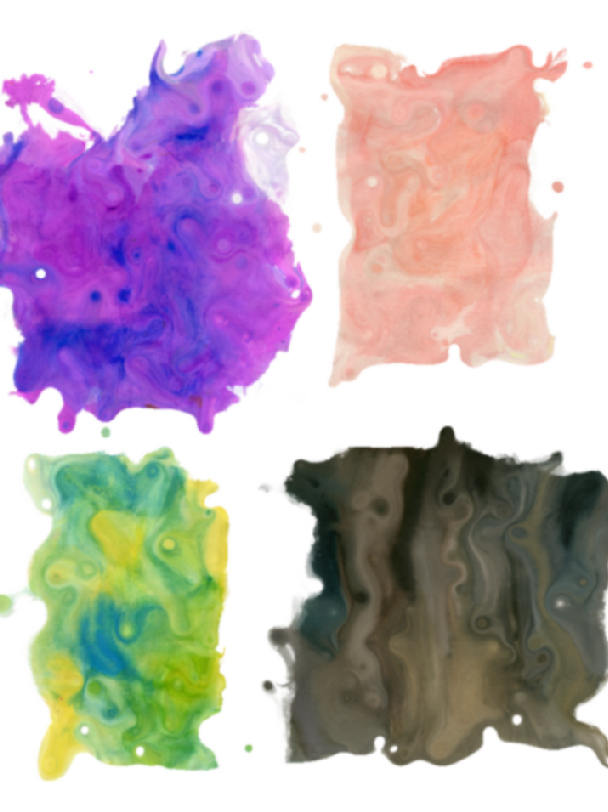
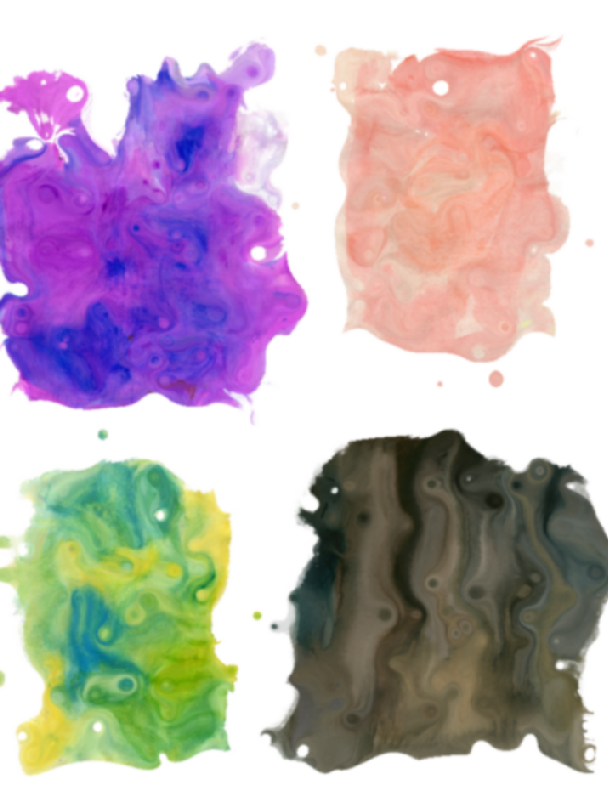
fixed vote mode

diff --git a/cult.cpp b/cult.cpp
@@ -5,6 +5,8 @@
 #include <omp.h>
 
 
+
+
 Cult::Cult() {
 }
 
@@ -41,6 +43,7 @@ void Cult::run(const QStringList &framePaths, const QString &texturePath) {
 
         m_outputFrames[i] = output_frame;
         std::cout<<"Processed frame #"<<i<<std::endl;
+        break; // <----- KEEP TO PRINT 1 FRAME
     }
 
 //    Image prevOutput;
@@ -217,55 +220,93 @@ Image Cult::patchmatch(const Image& target, const Image& source){
 }
 
 Image Cult::vote(const Image& target, const Image& source, NNF& nnf){
-    Image processed_frame = target;
-    std::vector<RGB> processed_pixels;
-    //For each pixel
-    const std::vector<RGB>& pixels = target.pixels;
-    for(int i = 0; i < pixels.size(); i++){
-        int x = i%target.width;
-        int y = i/target.width;
-        RGB accum;
-        accum.r = 0,accum.g = 0, accum.b = 0;
-        int count = 0;
-        //For each pixel in the patch radius around iterated pixel
-        for(int dy = -PATCH_RADIUS; dy <= PATCH_RADIUS; dy++){
-            for(int dx = -PATCH_RADIUS; dx <= PATCH_RADIUS; dx++){
-                //Offset position
-                int px = x + dx;
-                int py = y + dy;
 
-                //patch validity check
-                if(Patchmatch::isValidPatch(target, px, py, PATCH_RADIUS)){
+
+    Image processed_frame = target;
+    processed_frame.pixels.resize(target.width * target.height);
+
+    for(int y = 0; y < target.height; y++){
+        for(int x = 0; x < target.width; x++){
+            std::vector<RGB> candidates;
+
+            for(int dy = -PATCH_RADIUS; dy <= PATCH_RADIUS; dy++){
+                for(int dx = -PATCH_RADIUS; dx <= PATCH_RADIUS; dx++){
+                    int px = x + dx;
+                    int py = y + dy;
+
+                    if(!Patchmatch::isValidPatch(target, px, py, PATCH_RADIUS))
+                        continue;
+
                     Match match = nnf[py*target.width + px];
 
-                    //match to source
                     int sx = match.u - dx;
                     int sy = match.v - dy;
 
-                    if(sx>=0 && sx < source.width && sy>=0 && sy<source.height){
-                        RGB rgb = ImageUtils::rgbAt(source, sx, sy);
-                        accum.r += rgb.r;
-                        accum.g += rgb.g;
-                        accum.b += rgb.b;
-                        count++;
+                    if(sx >= 0 && sx < source.width && sy >= 0 && sy < source.height){
+                        candidates.push_back(ImageUtils::rgbAt(source, sx, sy));
                     }
-
                 }
             }
+
+            if(!candidates.empty()){
+                processed_frame.pixels[y * target.width + x] = modeVote(candidates);
+            } else {
+                processed_frame.pixels[y * target.width + x] = ImageUtils::rgbAt(target, x, y);
+            }
         }
-        RGB outRGB;
-        if(count==0) std::cout<<"No matches found in voting";
-        outRGB.r = accum.r/count;
-        outRGB.g = accum.g/count;
-        outRGB.b = accum.b/count;
-        outRGB.a = 255;
-        processed_pixels.push_back(outRGB);
     }
-    processed_frame.pixels = processed_pixels;
+
     return processed_frame;
+
+    // Image processed_frame = target;
+    // std::vector<RGB> processed_pixels;
+    // //For each pixel
+    // const std::vector<RGB>& pixels = target.pixels;
+    // for(int i = 0; i < pixels.size(); i++){
+    //     int x = i%target.width;
+    //     int y = i/target.width;
+    //     RGB accum;
+    //     accum.r = 0,accum.g = 0, accum.b = 0;
+    //     int count = 0;
+    //     //For each pixel in the patch radius around iterated pixel
+    //     for(int dy = -PATCH_RADIUS; dy <= PATCH_RADIUS; dy++){
+    //         for(int dx = -PATCH_RADIUS; dx <= PATCH_RADIUS; dx++){
+    //             //Offset position
+    //             int px = x + dx;
+    //             int py = y + dy;
+
+    //             //patch validity check
+    //             if(Patchmatch::isValidPatch(target, px, py, PATCH_RADIUS)){
+    //                 Match match = nnf[py*target.width + px];
+
+    //                 //match to source
+    //                 int sx = match.u - dx;
+    //                 int sy = match.v - dy;
+
+    //                 if(sx>=0 && sx < source.width && sy>=0 && sy<source.height){
+    //                     RGB rgb = ImageUtils::rgbAt(source, sx, sy);
+    //                     accum.r += rgb.r;
+    //                     accum.g += rgb.g;
+    //                     accum.b += rgb.b;
+    //                     count++;
+    //                 }
+
+    //             }
+    //         }
+    //     }
+    //     RGB outRGB;
+    //     if(count==0) std::cout<<"No matches found in voting";
+    //     outRGB.r = accum.r/count;
+    //     outRGB.g = accum.g/count;
+    //     outRGB.b = accum.b/count;
+    //     outRGB.a = 255;
+    //     processed_pixels.push_back(outRGB);
+    // }
+    // processed_frame.pixels = processed_pixels;
+    // return processed_frame;
 }
 
-RGB modeVote(const std::vector<RGB>& votes) {
+RGB Cult::modeVote(const std::vector<RGB>& votes) {
     struct Bucket {
         int count = 0;
         float r = 0, g = 0, b = 0;
@@ -274,9 +315,9 @@ RGB modeVote(const std::vector<RGB>& votes) {
     std::unordered_map<int, Bucket> hist;
 
     for (const RGB& c : votes) {
-        int r = std::clamp((int)std::round(c.r), 0, 255);
-        int g = std::clamp((int)std::round(c.g), 0, 255);
-        int b = std::clamp((int)std::round(c.b), 0, 255);
+        int r = std::clamp((int)std::round(c.r * 255.f), 0, 255);
+        int g = std::clamp((int)std::round(c.g * 255.f), 0, 255);
+        int b = std::clamp((int)std::round(c.b * 255.f), 0, 255);
 
         // 5 bits per channel: 32x32x32 color bins
         int rq = r >> 3;
@@ -309,6 +350,7 @@ RGB modeVote(const std::vector<RGB>& votes) {
     out.b = best.b / best.count;
     out.a = 255;
     return out;
+
 }
 
 //mode vote

diff --git a/patchmatch.cpp b/patchmatch.cpp
@@ -61,7 +61,7 @@ float Patchmatch::patchDistance(const Image& target, int tx, int ty,
             float db = target_rgb.b - source_rgb.b;
 
             //dist += dr*dr + dg*dg + db*db;
-            dist += abs(dr) + abs(dg) + abs(db);
+            dist += std::abs(dr) + std::abs(dg) + std::abs(db);
         }
     }
 

diff --git a/cult.h b/cult.h
@@ -38,6 +38,7 @@ private:
     Image patchmatch(const Image& target, const Image& source);
 
     Image vote(const Image& target, const Image& source, NNF& nnf);
+    RGB modeVote(const std::vector<RGB>& votes);
     
     const int PATCH_RADIUS = 8;
     const int PATCHMATCH_ITERATIONS = 4;
